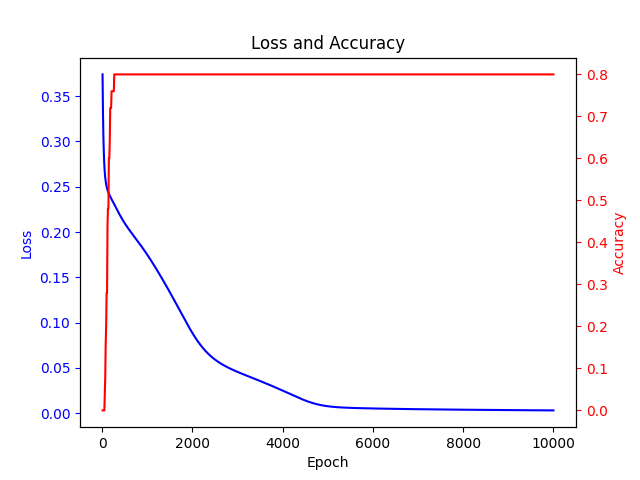
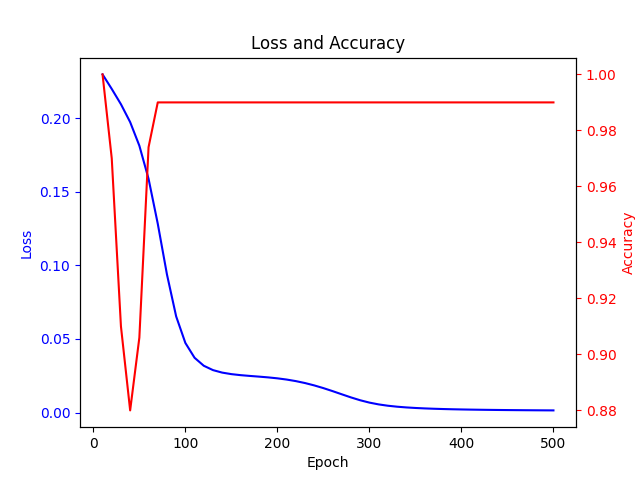
add test with 10 examples

diff --git a/llm_suggested_grokking_10.py b/llm_suggested_grokking_10.py
@@ -113,7 +113,7 @@ examples = '''
 
 # Split examples into individual lines
 lines = examples.split("\n")
-lines = lines[:100]
+lines = lines[:10]
 
 # Split lines into individual digits
 digits = [list(map(int, line)) for line in lines]
@@ -162,11 +162,9 @@ epoch_list, loss_list, acc_list = [], [], []
 
 
 # Training loop
-max_epoch = 500
+max_epoch = 1000000
 early_stop_count = 0
-tmp_max = 0
 es_mark = 30
-min_epoch = 200
 for epoch in range(max_epoch):
     for inputs in dataloader:
         optimizer.zero_grad()
@@ -199,7 +197,6 @@ for epoch in range(max_epoch):
                 sub_d += digits
                 sub_d += ' '
         acc = hit/total_mark
-        tmp_max = max(tmp_max, acc)
         epoch_list.append(epoch+1)
         loss_list.append(loss.item())
         acc_list.append(acc)
@@ -207,7 +204,7 @@ for epoch in range(max_epoch):
         print(f'Epoch [{epoch + 1}/max_epoch], Loss: {loss.item():.4f}, Acc: {acc}')
 
         # early stop
-        if tmp_max == acc and epoch > min_epoch:
+        if float(acc) == 1.0:
             early_stop_count += 1
         if early_stop_count == es_mark:
             print("Early stop triggered.")
@@ -243,7 +240,7 @@ ax2.tick_params('y', colors='r')
 
 # Set the title and show the plot
 plt.title('Loss and Accuracy')
-plt.savefig('lstm_loss_acc_grokking.png')
+plt.savefig('lstm_loss_acc_grokking_10.png')
 
 
 
